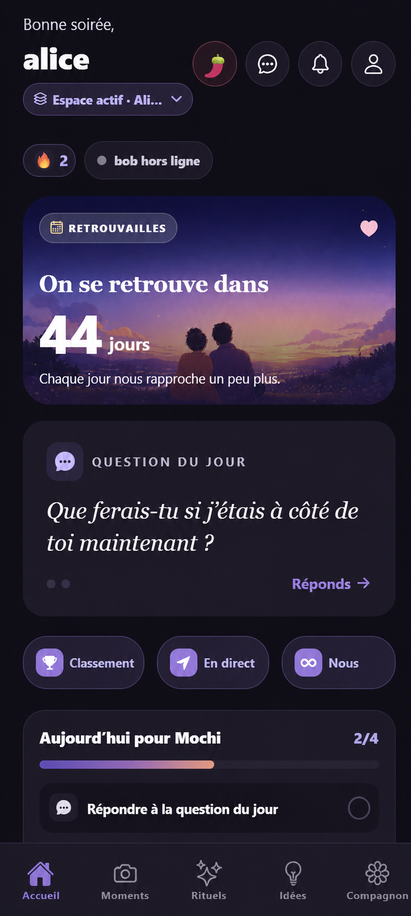
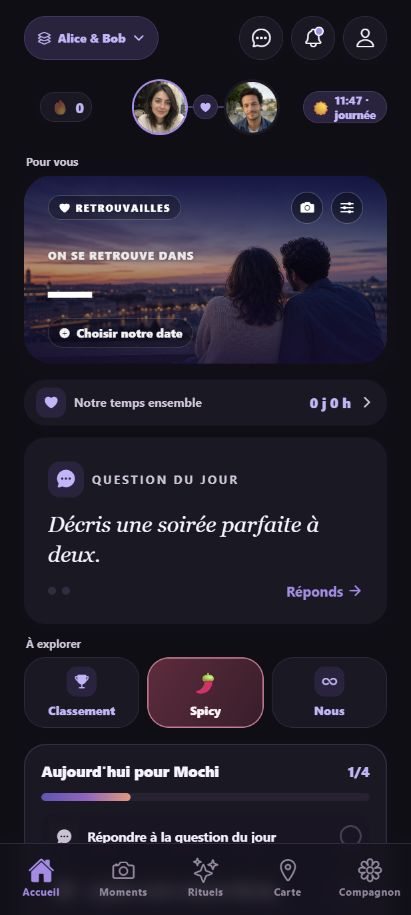
Refresh app screenshots and add shared iPhone mockups

diff --git a/app/page.tsx b/app/page.tsx
@@ -3,6 +3,7 @@ import { sitePath, absoluteUrl } from "./site";
 import GameMatch from "./GameMatch";
 import ExpenseDemo from "./ExpenseDemo";
 import WaitlistForm from "./WaitlistForm";
+import IPhoneMockup from "./IPhoneMockup";
 
 const features = [
   {
@@ -187,10 +188,7 @@ export default function Home() {
             <span className="float-icon">♥</span>
             <div><small>Prochaines retrouvailles</small><strong>dans 12 jours</strong></div>
           </div>
-          <div className="phone phone--hero">
-            <span className="phone-speaker" />
-            <img src={sitePath("/media/app-accueil.png")} alt="Accueil de l’application Nearly avec espace partagé, rituels et humeur" />
-          </div>
+          <IPhoneMockup className="phone phone--hero" src="/media/app-accueil.png" alt="Accueil de l’application Nearly avec espace partagé, rituels et humeur" eager />
           <div className="companion-chip">
             <span>✦</span>
             <div><small>Mochi est fier</small><strong>+25 pour votre lien</strong></div>
@@ -240,9 +238,7 @@ export default function Home() {
                 <h3>{feature.title}</h3>
                 <p>{feature.text}</p>
               </div>
-              <div className="feature-phone">
-                <img src={sitePath(feature.image)} alt={feature.alt} loading="lazy" />
-              </div>
+              <IPhoneMockup className="feature-phone" src={feature.image} alt={feature.alt} />
             </article>
           ))}
         </div>
@@ -260,9 +256,9 @@ export default function Home() {
           </ul>
         </div>
         <div className="phone-fan" aria-label="Galerie d’écrans Nearly">
-          <div className="fan-phone fan-phone--left"><img src={sitePath("/media/app-carte.png")} alt="Carte des proches Nearly" loading="lazy" /></div>
-          <div className="fan-phone fan-phone--center"><img src={sitePath("/media/app-idees.png")} alt="Idées personnalisées dans Nearly" loading="lazy" /></div>
-          <div className="fan-phone fan-phone--right"><img src={sitePath("/media/app-party.png")} alt="Party Lab de Nearly" loading="lazy" /></div>
+          <IPhoneMockup className="fan-phone fan-phone--left" src="/media/app-carte.png" alt="Carte des proches Nearly" />
+          <IPhoneMockup className="fan-phone fan-phone--center" src="/media/app-idees.png" alt="Idées personnalisées dans Nearly" />
+          <IPhoneMockup className="fan-phone fan-phone--right" src="/media/app-party.png" alt="Party Lab de Nearly" />
         </div>
       </section>
 
@@ -329,21 +325,15 @@ export default function Home() {
         </div>
         <div className="party-devices" aria-label="Aperçu du Party Mode de Nearly pour les groupes d’amis">
           <figure className="party-device party-device--lab">
-            <div className="party-screen">
-              <img src={sitePath("/media/app-party-lab.png")} alt="Jeux et défis du Party Lab de Nearly" loading="lazy" />
-            </div>
+            <IPhoneMockup className="party-screen" src="/media/app-party-lab.png" alt="Jeux et défis du Party Lab de Nearly" />
             <figcaption>Party Lab</figcaption>
           </figure>
           <figure className="party-device party-device--photos">
-            <div className="party-screen">
-              <img src={sitePath("/media/app-party-photos.png")} alt="Coffre de photos privées d’une soirée entre amis dans Nearly" loading="lazy" />
-            </div>
+            <IPhoneMockup className="party-screen" src="/media/app-party-photos.png" alt="Coffre de photos privées d’une soirée entre amis dans Nearly" />
             <figcaption>Coffre photo</figcaption>
           </figure>
           <figure className="party-device party-device--expenses">
-            <div className="party-screen">
-              <img src={sitePath("/media/app-party-expenses.png")} alt="Répartition des frais partagés entre amis dans Nearly" loading="lazy" />
-            </div>
+            <IPhoneMockup className="party-screen" src="/media/app-party-expenses.png" alt="Répartition des frais partagés entre amis dans Nearly" />
             <figcaption>Frais partagés</figcaption>
           </figure>
           <span className="party-chip">● Espace privé à la bande</span>
@@ -386,12 +376,8 @@ export default function Home() {
         </div>
         <div className="spicy-visual" aria-label="Aperçu du mode Spicy privé de Nearly">
           <div className="spicy-glow" />
-          <div className="spicy-phone spicy-phone--vault">
-            <img src={sitePath("/media/app-spicy-vault.png")} alt="Coffre privé du mode Spicy protégé par code secret" loading="lazy" />
-          </div>
-          <div className="spicy-phone spicy-phone--home">
-            <img src={sitePath("/media/app-spicy-home.png")} alt="Accueil consenti du mode Spicy de Nearly" loading="lazy" />
-          </div>
+          <IPhoneMockup className="spicy-phone spicy-phone--vault" src="/media/app-spicy-vault.png" alt="Coffre privé du mode Spicy protégé par code secret" />
+          <IPhoneMockup className="spicy-phone spicy-phone--home" src="/media/app-spicy-home.png" alt="Accueil consenti du mode Spicy de Nearly" />
           <span className="spicy-chip">✓ Privé · consenti · temporaire</span>
         </div>
       </section>

diff --git a/app/globals.css b/app/globals.css
@@ -204,7 +204,6 @@ h1 em, h2 em { color: var(--coral); font-weight: 500; }
   transform: rotate(2.5deg);
 }
 .phone img { width: 100%; height: 100%; object-fit: cover; object-position: top; border-radius: 42px; }
-.phone-speaker { position: absolute; z-index: 4; top: 20px; left: 50%; transform: translateX(-50%); width: 88px; height: 25px; border-radius: 999px; background: #08060b; }
 .float-card, .companion-chip {
   position: absolute;
   z-index: 5;
@@ -992,7 +991,6 @@ footer.legal-footer strong { color: white; }
   .hero-visual::after { width: 385px; height: 385px; }
   .phone { width: 278px; height: 575px; border-radius: 43px; }
   .phone img { border-radius: 34px; }
-  .phone-speaker { top: 17px; }
   .float-card { transform: scale(.83); }
   .float-card--question { left: -42px; top: 115px; }
   .float-card--reunion { right: -45px; bottom: 120px; }
@@ -1116,4 +1114,72 @@ footer.legal-footer strong { color: white; }
   html { scroll-behavior: auto; }
   .game-match__question, .game-result { animation: none; }
   .expense-trial-loading > span { animation: none; opacity: .65; }
+}
+
+/* Device chrome stays separate from the real screenshots, with safe areas
+   above and below the app so no controls are hidden by the Dynamic Island. */
+.phone.iphone-mockup,
+.feature-card .feature-phone.iphone-mockup,
+.fan-phone.iphone-mockup,
+.party-device .party-screen.iphone-mockup,
+.spicy-phone.iphone-mockup {
+  height: auto;
+  padding: 7px;
+  overflow: visible;
+  container-type: inline-size;
+  border: 1px solid #66616f;
+  background: linear-gradient(110deg, #5e5965, #141219 12%, #09080d 87%, #514b58);
+  box-shadow: 0 35px 75px rgba(12, 6, 23, .3), inset 0 0 0 2px #25212d;
+}
+.iphone-display { position: relative; overflow: hidden; border-radius: 12cqw; background: #0d0d13; }
+.iphone-mockup .iphone-display > img {
+  display: block;
+  width: 100%;
+  height: auto;
+  border-radius: 0;
+  object-fit: contain;
+}
+.iphone-status {
+  position: relative;
+  height: 16cqw;
+  display: flex;
+  align-items: center;
+  justify-content: space-between;
+  padding: 2cqw 7cqw 0;
+  color: #fff;
+  font-family: Arial, Helvetica, sans-serif;
+}
+.iphone-time { font-size: 4.5cqw; font-weight: 700; letter-spacing: -.03em; }
+.iphone-island {
+  position: absolute;
+  top: 3.5cqw;
+  left: 50%;
+  transform: translateX(-50%);
+  width: 31cqw;
+  height: 8cqw;
+  border-radius: 8cqw;
+  background: #000;
+  box-shadow: inset 0 0 0 1px #19171f;
+}
+.iphone-island i { position: absolute; right: 3cqw; top: 2.5cqw; width: 3cqw; height: 3cqw; border-radius: 50%; background: radial-gradient(circle at 35% 35%, #283552, #080a11 68%); }
+.iphone-indicators { display: flex; align-items: center; gap: 1.5cqw; }
+.iphone-indicators svg { width: 4.5cqw; height: 3.5cqw; fill: currentColor; }
+.iphone-battery { position: relative; width: 7.3cqw; height: 3.5cqw; border: 1px solid #aaa; border-radius: 1cqw; padding: .3cqw; }
+.iphone-battery::after { content: ""; position: absolute; right: -.9cqw; top: .9cqw; width: .6cqw; height: 1.3cqw; border-radius: 0 .5cqw .5cqw 0; background: #aaa; }
+.iphone-battery > span { display: block; height: 100%; border-radius: .5cqw; background: #fff; }
+.iphone-battery b { position: absolute; inset: 0; display: grid; place-items: center; color: #15121a; font-size: 2.4cqw; font-weight: 800; }
+.iphone-home { height: 6cqw; display: grid; place-items: center; }
+.iphone-home > span { width: 34%; height: 1.1cqw; border-radius: 2cqw; background: #f5f4f8; }
+.iphone-button { position: absolute; width: 3px; background: linear-gradient(90deg, #35303e, #817989); border-radius: 2px; }
+.iphone-button--volume { left: -3px; top: 20%; height: 8%; box-shadow: 0 -35px 0 -1px #514b59; }
+.iphone-button--power { right: -3px; top: 27%; height: 11%; }
+.hero-visual { height: 800px; }
+.phone-fan { height: 740px; }
+.party-devices { height: 810px; }
+.spicy-visual { height: 780px; }
+@media (max-width: 760px) {
+  .hero-visual { height: 680px; }
+  .phone-fan { height: 620px; }
+  .party-devices { height: 690px; }
+  .spicy-visual { height: 640px; }
 }

diff --git a/app/IPhoneMockup.tsx b/app/IPhoneMockup.tsx
@@ -1,0 +1,26 @@
+import { sitePath } from "./site";
+import { screenshotVersions } from "./screenshot-versions";
+
+type Props = { src: string; alt: string; className: string; eager?: boolean };
+
+export default function IPhoneMockup({ src, alt, className, eager = false }: Props) {
+  return (
+    <div className={`${className} iphone-mockup`}>
+      <span className="iphone-button iphone-button--volume" aria-hidden="true" />
+      <span className="iphone-button iphone-button--power" aria-hidden="true" />
+      <div className="iphone-display">
+        <div className="iphone-status" aria-hidden="true">
+          <span className="iphone-time">9:41</span>
+          <span className="iphone-island"><i /></span>
+          <span className="iphone-indicators">
+            <svg viewBox="0 0 18 12" className="iphone-signal"><rect x="0" y="8" width="3" height="4" rx=".7" /><rect x="5" y="5.5" width="3" height="6.5" rx=".7" /><rect x="10" y="3" width="3" height="9" rx=".7" /><rect x="15" width="3" height="12" rx=".7" /></svg>
+            <svg viewBox="0 0 18 14" className="iphone-wifi"><path d="M1 4.3a12 12 0 0 1 16 0M4 7.5a7.5 7.5 0 0 1 10 0M7 10.5a3 3 0 0 1 4 0" fill="none" stroke="currentColor" strokeWidth="2.2" /><circle cx="9" cy="13" r="1" /></svg>
+            <span className="iphone-battery"><span /><b>100</b></span>
+          </span>
+        </div>
+        <img src={`${sitePath(src)}?v=${screenshotVersions[src]}`} alt={alt} loading={eager ? "eager" : "lazy"} width={411} height={915} />
+        <div className="iphone-home" aria-hidden="true"><span /></div>
+      </div>
+    </div>
+  );
+}

diff --git a/app/screenshot-versions.ts b/app/screenshot-versions.ts
@@ -1,0 +1,15 @@
+// Generated by npm run screenshots:sync.
+export const screenshotVersions: Record<string, string> = {
+  "/media/app-accueil.png": "6582ffc425a7",
+  "/media/app-carte.png": "c16b75197af6",
+  "/media/app-compagnon.png": "d8caed57cdec",
+  "/media/app-idees.png": "56e706703df7",
+  "/media/app-moments.png": "0836abe8742a",
+  "/media/app-party-expenses.png": "95c2145e43ee",
+  "/media/app-rituels.png": "654a641af7bb",
+  "/media/app-party.png": "5b89045aac24",
+  "/media/app-party-lab.png": "de808564d0b2",
+  "/media/app-party-photos.png": "6fefbb4a8e3b",
+  "/media/app-spicy-home.png": "2fc6c1d8f26c",
+  "/media/app-spicy-vault.png": "6977728f0448"
+};

diff --git a/README.md b/README.md
@@ -36,6 +36,12 @@ Références : [export statique Next.js](https://nextjs.org/docs/app/guides/stat
 
 ## Démonstrations
 
+### Captures de l’application
+
+Les images du site sont des fichiers copiés dans `public/media`, indépendants du dépôt de l’application. Pour importer les sept captures réelles du 29 septembre (accueil, rituels, moments, compagnon, idées, carte, frais), utiliser `npm run screenshots:sync`. Le script lit par défaut `../Application-mobile-Nearly/docs/site-screenshots` ; un autre dossier peut être fourni avec `npm run screenshots:sync -- "chemin/vers/captures"`. Il met aussi à jour les versions de cache selon le contenu des douze images. Construire puis déployer le site après synchronisation.
+
+Les cinq visuels Party/Spicy restants proviennent encore des captures antérieures : aucune nouvelle capture de ces écrans n’était présente dans ce lot. Tous les visuels utilisent le composant `IPhoneMockup`, avec barre d’état et indicateur d’accueil séparés des captures.
+
 Les frais, pseudonymes et questions tirées restent dans le stockage de session de l’onglet, sans base de données et sans empreinte IP créée par Nearly. Les limites de trois frais et quatre questions sont des limites de démonstration côté navigateur. Effacer la session permet un nouvel essai. Les navigateurs peuvent restaurer une session après fermeture.
 
 Les conversions de devises interrogent directement l’API publique Frankfurter. Aucun prénom ni montant n’est transmis à ce fournisseur. Le calcul en euros fonctionne sans service de taux ; une conversion indisponible affiche une erreur et ne substitue pas un taux fictif.
